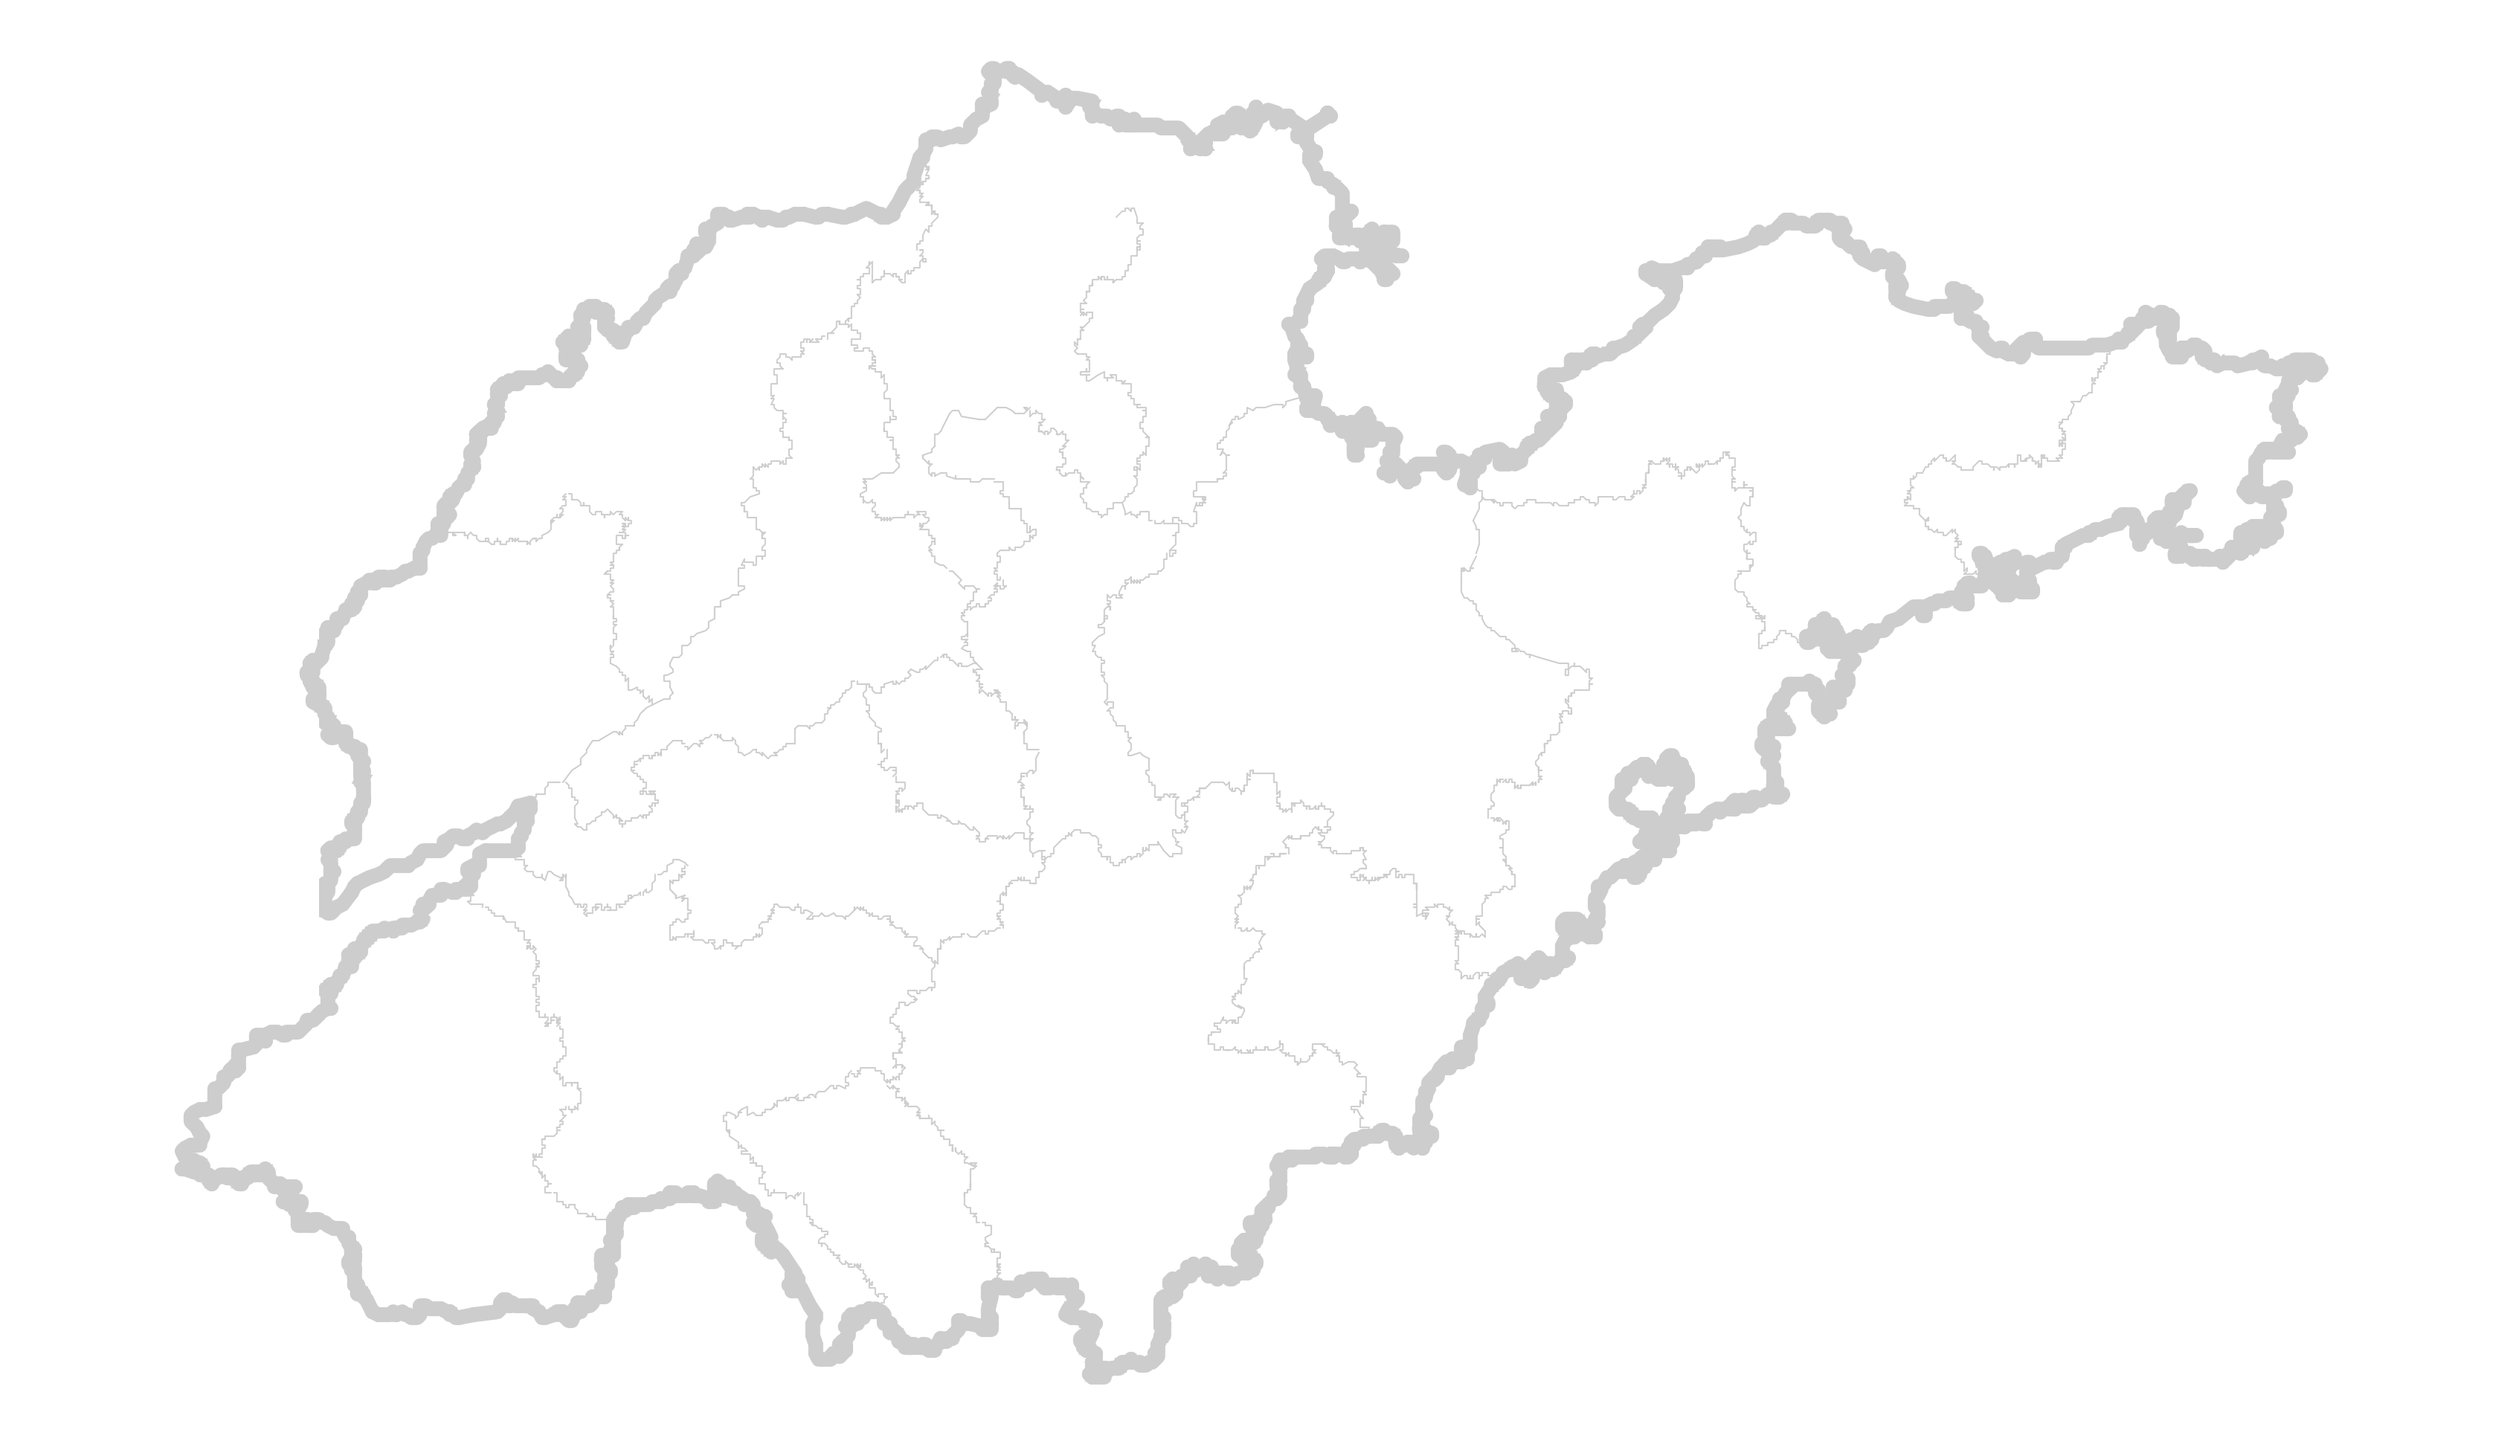
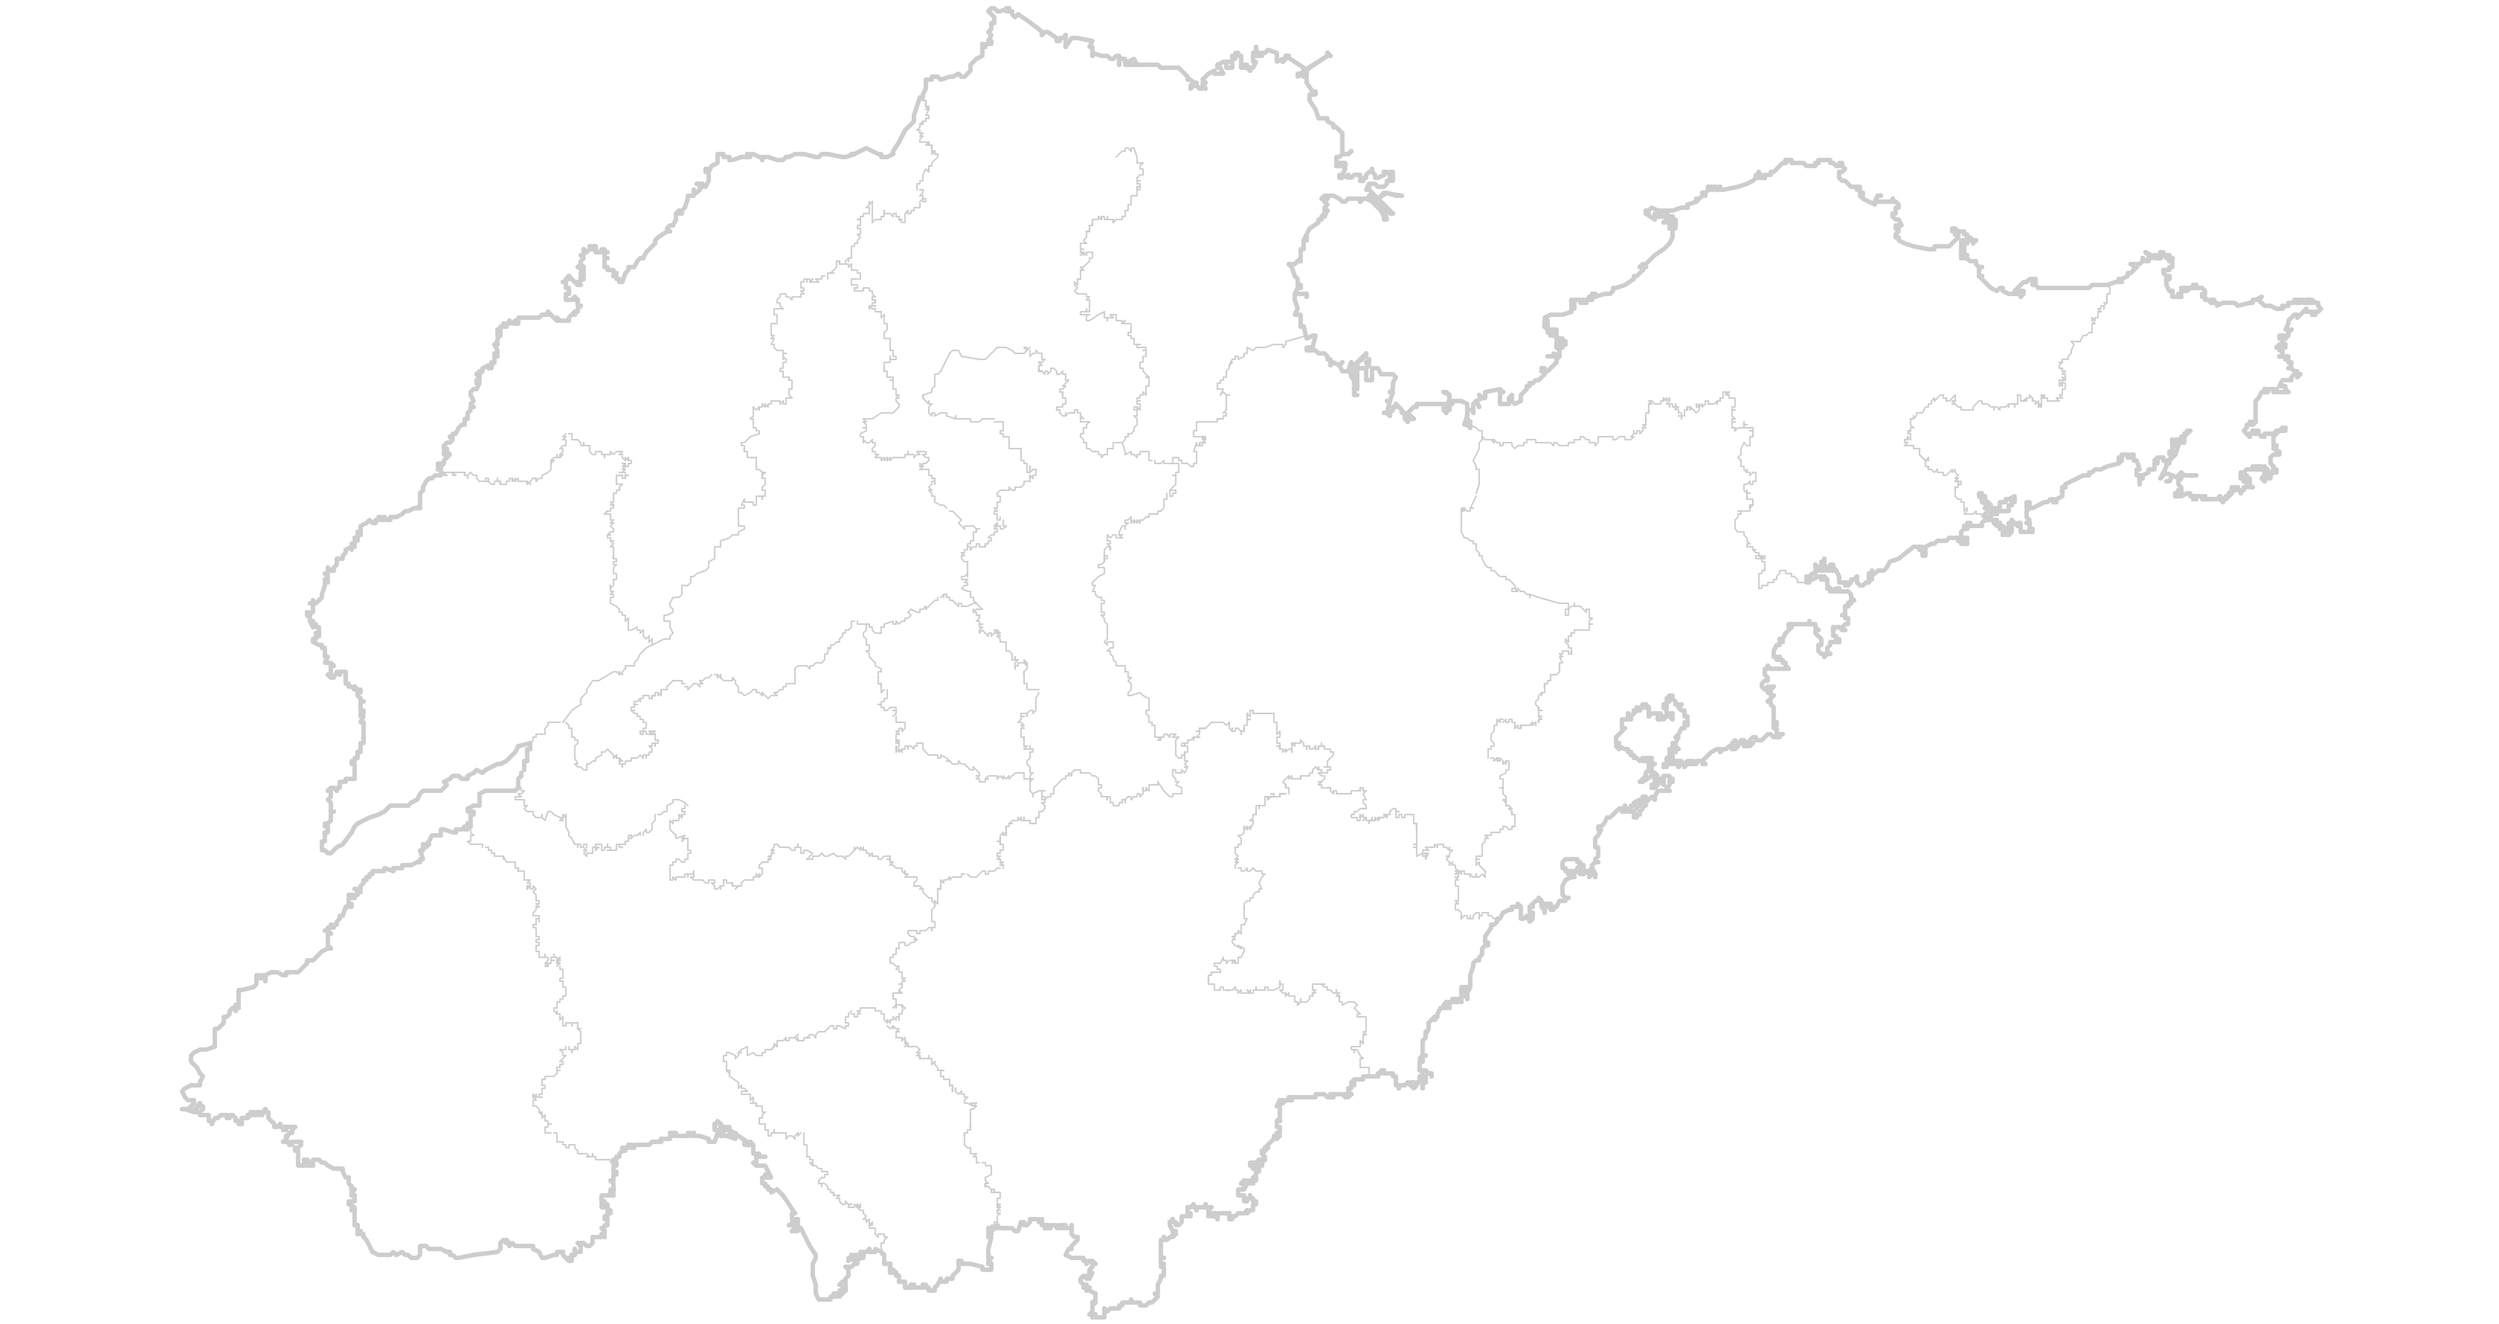
git

diff --git a/src/screen/left-map.js b/src/screen/left-map.js
@@ -2,13 +2,76 @@ import React, { Component } from 'react';
 
 export default class LeftMap extends Component {
   state = {};
+
   render() {
     return (
       <div className="left-map">
-        <div className="img-container">
-          <img className="map-img" src="./static/map.png" alt="" />
+        <div className="map-container">
+          <div className="total-population">
+            <div className="label">人口总数:</div>
+            <div className="num-container">0</div>
+            <div className="pun-container">,</div>
+            <div className="num-container">0</div>
+            <div className="num-container">0</div>
+            <div className="num-container">0</div>
+            <div className="pun-container">,</div>
+            <div className="num-container">0</div>
+            <div className="num-container">0</div>
+            <div className="num-container">0</div>
+            <div className="pun-container">,</div>
+            <div className="num-container">0</div>
+            <div className="num-container">0</div>
+            <div className="num-container">0</div>
+          </div>
+          <div className="img-container">
+            {cityList.map((item, index) => {
+              return (
+                <div
+                  className="city-btn"
+                  key={index}
+                  style={{ left: item.left, bottom: item.bottom }}
+                  onClick={() => {
+                    window.location.href = 'https:www.baidu.com';
+                  }}
+                >
+                  {item.name}
+                  <em></em>
+                </div>
+              );
+            })}
+            <img className="map-img" src="./static/map.png" alt="" />
+          </div>
         </div>
       </div>
     );
   }
+}
+
+// 根据地图计算相对位置
+const lng = [114.13474218750116, 123.3632578124936];
+const lat = [34.35957640929948, 38.296657814240405];
+const diffLng = lng[1] - lng[0];
+const diffLat = lat[1] - lat[0];
+const cityList = [
+  { name: '滨州', value: 'binzhou', center: [117.994584, 37.39252] },
+  { name: '德州', value: 'dezhou', center: [116.340858, 37.452006] },
+  { name: '东营', value: 'dongying', center: [118.67273, 37.452006] },
+  { name: '菏泽', value: 'heze', center: [115.44856, 35.239107] },
+  { name: '济南', value: 'jinan', center: [117.114183, 36.631092] },
+  { name: '济宁', value: 'jining', center: [116.578804, 35.429464] },
+  { name: '莱芜', value: 'laiwu', center: [117.673356, 36.226584] },
+  { name: '聊城', value: 'liaocheng', center: [115.970614, 36.469289] },
+  { name: '临沂', value: 'linqin', center: [118.351503, 35.132032] },
+  { name: '青岛', value: 'qingdao', center: [120.385942, 36.071919] },
+  { name: '日照', value: 'rizhao', center: [119.529336, 35.441362] },
+  { name: '泰安', value: 'taian', center: [117.078491, 36.226584] },
+  { name: '威海', value: 'weihai', center: [122.111051, 37.535287] },
+  { name: '潍坊', value: 'weifang', center: [119.148622, 36.726271] },
+  { name: '烟台', value: 'yantai', center: [121.444802, 37.487698] },
+  { name: '枣庄', value: 'zaozhuang', center: [117.30454, 34.846496] },
+  { name: '淄博', value: 'zibo', center: [118.042173, 36.821449] }
+];
+for (let item of cityList) {
+  item.left = ((item.center[0] - lng[0]) / diffLng) * 100 + '%';
+  item.bottom = ((item.center[1] - lat[0]) / diffLat) * 100 + '%';
 }

diff --git a/style/pages/screen/left-map.less b/style/pages/screen/left-map.less
@@ -3,15 +3,107 @@
   flex: 1;
   height: 100%;
   padding-bottom: @bottom-height;
-  .img-container {
+  .map-container {
     background: @background-border;
     background-size: @background-border-size;
     border: 1px solid black;
-
     height: 100%;
-
-    .map-img {
-      width: 100%;
+    display: flex;
+    flex-direction: column;
+    justify-content: space-between;
+    .total-population {
+      color: white;
+      display: flex;
+      align-items: flex-end;
+      justify-content: center;
+      margin-top: 40px;
+      .pun-container {
+        font-size: 40px;
+        font-weight: 800;
+        margin-left: 5px;
+      }
+      .num-container {
+        font-size: 60px;
+        font-weight: 800;
+        padding: 0 5px;
+        margin-left: 5px;
+        background-color: #08266f;
+      }
     }
+    .img-container {
+      position: relative;
+      .city-btn {
+        @radius: 50px;
+        position: absolute;
+        color: black;
+        width: @radius;
+        height: @radius;
+        border-radius: 50%;
+        background-color: white;
+        cursor: pointer;
+        display: flex;
+        align-items: center;
+        justify-content: center;
+        transform: translate(-50%, 50%);
+        > em:after {
+          @halo-radius: @radius * 1.5;
+          content: '';
+          position: absolute;
+          left: 50%;
+          top: 50%;
+          width: @halo-radius;
+          height: @halo-radius;
+          border-radius: 50%;
+          box-shadow: 0 0 1px 2px rgba(255, 255, 255, 0.8);
+          top: 50%;
+          left: 50%;
+          margin-top: -@halo-radius / 2;
+          margin-left: -@halo-radius / 2;
+          z-index: 3;
+          opacity: 0;
+          -webkit-animation: halo 1s 0.5s infinite ease-out;
+          -moz-animation: halo 1s 0.5s infinite ease-out;
+          animation: halo 1s 0.5s infinite ease-out;
+        }
+        > em:before {
+          @halo-radius: @radius * 1.2;
+          content: '';
+          position: absolute;
+          left: 50%;
+          top: 50%;
+          width: @halo-radius;
+          height: @halo-radius;
+          border-radius: 50%;
+          box-shadow: 0 0 1px 2px rgba(255, 255, 255, 0.8);
+          top: 50%;
+          left: 50%;
+          margin-top: -@halo-radius / 2;
+          margin-left: -@halo-radius / 2;
+          z-index: 3;
+          opacity: 0;
+          -webkit-animation: halo 1s 0.5s infinite ease-out;
+          -moz-animation: halo 1s 0.5s infinite ease-out;
+          animation: halo 1s 0.5s infinite ease-out;
+        }
+      }
+      .map-img {
+        width: 100%;
+        margin-bottom: 40px;
+      }
+    }
+  }
+}
+
+@keyframes halo {
+  0% {
+    opacity: 0;
+    transform: scale(0.1);
+  }
+  50% {
+    opacity: 1;
+  }
+  100% {
+    opacity: 0;
+    transform: scale(1.2);
   }
 }

diff --git a/src/map/map-styles/light-sd.js b/src/map/map-styles/light-sd.js
@@ -34,7 +34,7 @@ const layers = [
       'line-join': 'round'
     },
     paint: {
-      'line-width': 10,
+      'line-width': 3,
       'line-color': '#cdcdcd'
     }
   },
